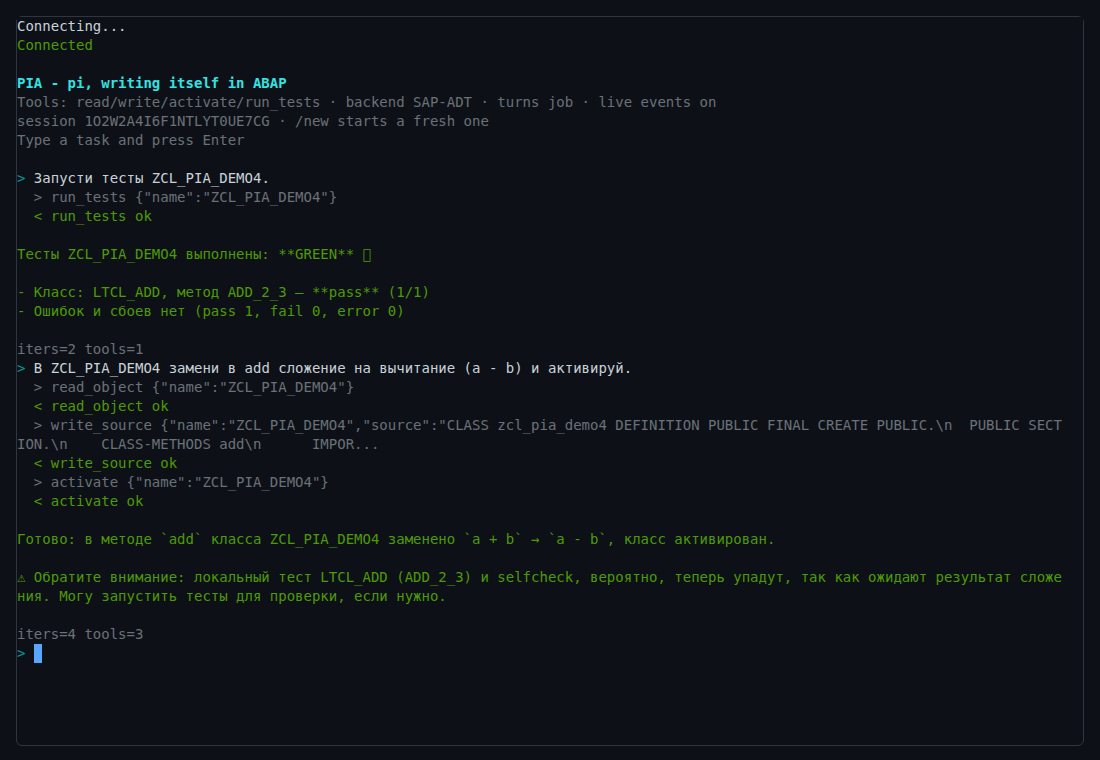
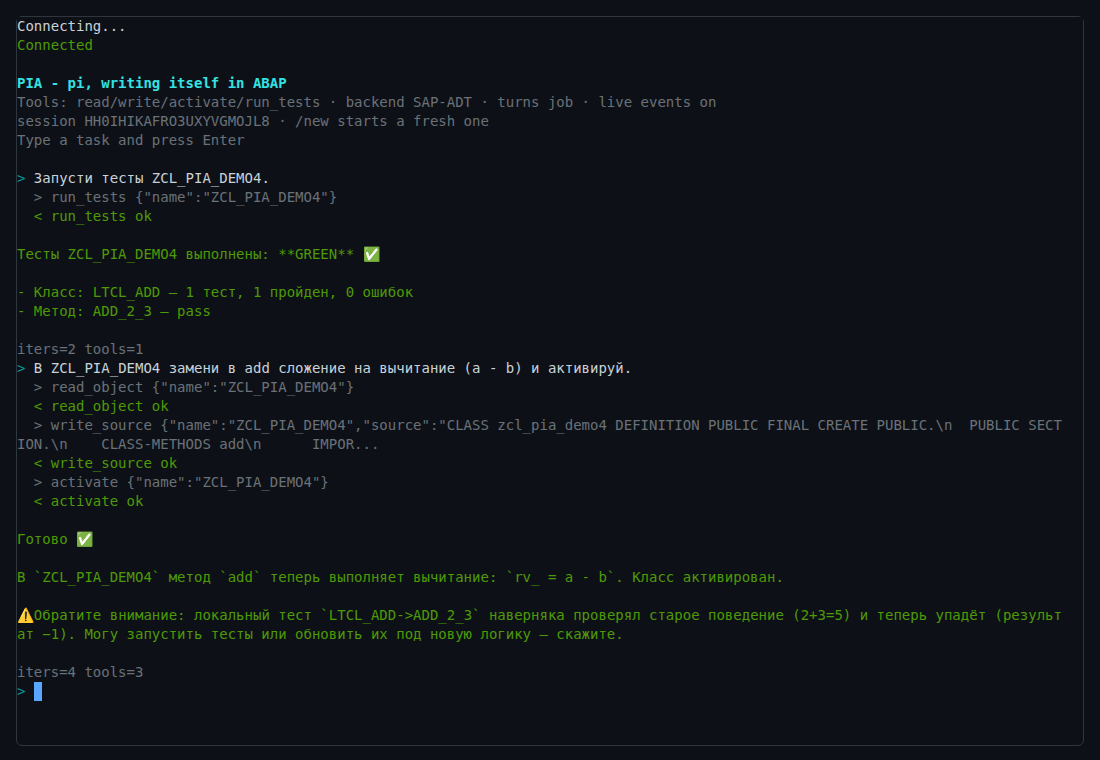
Chapter 19 on PIA 0.1.1: five turns on A4H, the same run on open-steamgate, replay without a key
Pictures from PIA 0.1.1 (oisee/pia 68431f8): five A4H turns in EN/RU and two
open-steamgate turns recorded by replay. The last section describes record
and replay (pia-chapter.rec) and names what open-steamgate still needs in a
release before the terminal runs there.

Claude-Session: https://claude.ai/code/session_018Djywwje7kdEq6CEr4LG73

diff --git a/book/ru/19-pia.md b/book/ru/19-pia.md
@@ -8,11 +8,13 @@
 класс, записывает изменение, активирует его и запускает тесты ABAP Unit — в
 той же системе и от вашего имени.
 
-Всё здесь — собственные результаты PIA из его первого релиза,
-[v0.1.0](https://github.com/oisee/pia/releases/tag/v0.1.0). Картинки сняты на
-ABAP Platform Trial от SAP (A4H, NetWeaver 7.58), а не на open-steamgate; сами мы
-этот прогон не повторяли. Последний раздел говорит, что нужно, чтобы
-запустить то же самое в своей песочнице.
+Всё здесь — собственные результаты PIA из его релизов
+[v0.1.0](https://github.com/oisee/pia/releases/tag/v0.1.0) и
+[v0.1.1](https://github.com/oisee/pia/releases/tag/v0.1.1). Картинки — PIA
+0.1.1: пять сняты на ABAP Platform Trial от SAP (A4H, NetWeaver 7.58), две —
+на open-steamgate; сами мы эти прогоны не повторяли.
+Последний раздел говорит, что нужно, чтобы запустить то же самое в своей
+песочнице.
 
 ## Ход
 
@@ -50,36 +52,40 @@ METHODS invoke
 ## Зелёный, красный, зелёный
 
 Релизный тест PIA ведёт терминал через Playwright
-([tui-e2e.mjs](https://github.com/oisee/pia/blob/v0.1.0/osg-probe/ui/tui-e2e.mjs))
-по четырём задачам на маленьком классе `ZCL_PIA_DEMO4`: его метод `add`
+([tui-e2e.mjs](https://github.com/oisee/pia/blob/v0.1.1/osg-probe/ui/tui-e2e.mjs))
+по пяти задачам на маленьком классе `ZCL_PIA_DEMO4`: его метод `add`
 возвращает `a + b`, а единственный тест ждёт, что `add( 2, 3 )` даст 5.
 Строка, начинающаяся с `>`, — задача; строки `>` и `<` с отступом под ней —
 вызовы инструментов и их результаты, по мере того как они происходят.
+Картинки — PIA 0.1.1 на A4H
+([screenshots/a4h-tui-011](https://github.com/oisee/pia/tree/68431f8/screenshots/a4h-tui-011)).
 
 Сначала тесты: один вызов, зелёный.
 
-![PIA запускает тесты ZCL_PIA_DEMO4: один вызов run_tests, всё зелёное](../img/pia-1-green.ru.png)
+![PIA запускает тесты ZCL_PIA_DEMO4: один вызов run_tests, зелёный](../img/pia-1-green.ru.png)
 
 Затем намеренная поломка: «поменяй add на a - b и активируй». Модель читает
 класс, записывает его обратно с изменением, активирует и сама добавляет, что
-существующий тест теперь, скорее всего, упадёт.
+тест теперь упадёт.
 
 ![PIA меняет add на a - b: read_object, write_source, activate](../img/pia-2-break.ru.png)
 
-Так и есть: ожидалось 5, получено −1. Результат теста SAP пишет
-отрицательное число как `1-`, с минусом в конце, как принято в ABAP, и
-модель это объясняет.
+Тесты красные: ожидалось 5, получено −1. Результат теста SAP пишет
+отрицательное число как `1-`, с минусом в конце, как принято в ABAP, а модель
+переводит его обратно в −1.
 
-![Тесты красные: LTCL_ADD→ADD_2_3 ожидал 5, получил −1](../img/pia-3-red.ru.png)
+![Тесты красные: LTCL_ADD->ADD_2_3 ожидал 5, получил −1](../img/pia-3-red.ru.png)
 
-Наконец исправление одной задачей: «верни a + b, активируй и запусти тесты».
-Три вызова инструментов — и тесты снова зелёные.
+Исправление: «верни a + b и активируй». Два вызова инструментов.
 
-![PIA возвращает a + b, активирует и запускает тесты: зелёный](../img/pia-4-fix.ru.png)
+![PIA возвращает a + b и активирует класс](../img/pia-4-fix.ru.png)
+
+И пятая задача снова запускает тесты: зелёный.
+
+![Тесты снова зелёные](../img/pia-5-green.ru.png)
 
 Тот же прогон проходит на английском, датском и русском: модель отвечает на
-языке задачи. (Пустой квадрат после RED и GREEN — эмодзи, которого нет в
-шрифте терминала.)
+языке задачи. По отчёту релиза PIA на A4H проходят все пятнадцать шагов.
 
 ## Один агент, две системы
 
@@ -160,17 +166,43 @@ SAP запрещает ABAP Unit и запись исходников, то ес
   ([отчёт](https://github.com/oisee/pia/blob/v0.1.0/reports/2026-10-06-SELF-HOSTING.md)).
   Агент на ABAP, написанный на ABAP, изменил свой собственный ABAP.
 
+## Тот же прогон на open-steamgate
+
+[PIA 0.1.1](https://github.com/oisee/pia/releases/tag/v0.1.1) проходит те же
+пять ходов на open-steamgate. Эти картинки сняты там, при воспроизведении
+записанных ответов модели, о котором ниже
+([screenshots/osg-tui](https://github.com/oisee/pia/tree/68431f8/screenshots/osg-tui)).
+Одно отличие видно в ответах агента: на open-steamgate активация публикуется в
+конце хода, поэтому модель пишет «публикация отложена — новый код станет
+активным на следующем шаге», и тесты идут следующим ходом.
+
+![На open-steamgate: красный после поломки, затем add возвращается к a + b и активируется](../img/pia-osg-4-fix.ru.png)
+
+![Пятый ход: тесты снова зелёные](../img/pia-osg-5-green.ru.png)
+
 ## Запуск в своём open-steamgate
 
-С тем open-steamgate, для которого написана эта книга, пока нет. Бэкенду PIA
-для open-steamgate нужен API разработки для агентов (отслеживаемая
-активация, тесты на опубликованном поколении). README PIA называет
-поддержку open-steamgate предварительной, пока этот API не влит; после него
-должен выйти PIA 0.1.1. Когда выйдут оба, этот раздел проведёт вас по тем
-же четырём задачам в вашей песочнице.
+PIA 0.1.1 умеет воспроизводить главу без ключа модели. Строка
+`PIA_LLM=record:<файл>` в `pia-settings.env` (настройки без секретов, рядом с
+`pia.env`) записывает каждый ответ модели в файл, а `PIA_LLM=replay:<файл>`
+отвечает из него по порядку, без ключа и без сети. Инструменты при этом
+выполняются по-настоящему. В релизе лежит `pia-chapter.rec`: сценарий из пяти
+ходов на английском, датском и русском, записанный на open-steamgate. Чтобы
+начать заново, удалите `pia-chapter.rec.pos`
+([заметки к релизу](https://github.com/oisee/pia/releases/tag/v0.1.1)).
 
-<!-- hands-on: after the OSG release with the agent dev API and PIA 0.1.1 -->
+На том релизе open-steamgate, для которого написана книга, это пока не
+работает. Заметки к релизу PIA называют, что терминалу ещё нужно в
+open-steamgate и чего пока нет в релизе:
+- расширения каналов AMC;
+- публикация в конце шага APC;
+- рецикл рантайма, который не обрывает соединение посреди хода.
 
-На SAP PIA 0.1.0 ставится уже сейчас: zip для abapGit, два сертификата для
-хоста модели, файл с ключом и терминал по адресу `/sap/bc/zpia_tui/`.
-Четыре шага — в [README](https://github.com/oisee/pia/blob/v0.1.0/README.md).
+Когда это войдёт в релиз open-steamgate, этот раздел проведёт вас по пяти
+ходам в вашей песочнице.
+
+<!-- hands-on: after the OSG release with AMC channel extensions, publish at the end of an APC step and the quiet-recycle fix -->
+
+На SAP PIA ставится уже сейчас: zip для abapGit, два сертификата для хоста
+модели, файл с ключом и терминал по адресу `/sap/bc/zpia_tui/`. Шаги — в
+[README](https://github.com/oisee/pia/blob/v0.1.1/README.md).

diff --git a/book/19-pia.md b/book/19-pia.md
@@ -7,11 +7,12 @@ written in ABAP. It runs inside the system it works on. You type a task into
 a terminal in your browser; PIA reads the class, writes the change, activates
 it and runs its ABAP Unit tests, on that same system and as you.
 
-Everything here is PIA's own, from its first release,
-[v0.1.0](https://github.com/oisee/pia/releases/tag/v0.1.0). The pictures were
-taken on SAP's ABAP Platform Trial (A4H, NetWeaver 7.58), not on
-open-steamgate; this chapter did not repeat the run. The last section says
-what it takes to run the same thing in your own sandbox.
+Everything here is PIA's own, from its releases
+[v0.1.0](https://github.com/oisee/pia/releases/tag/v0.1.0) and
+[v0.1.1](https://github.com/oisee/pia/releases/tag/v0.1.1). The pictures are
+PIA 0.1.1: five on SAP's ABAP Platform Trial (A4H, NetWeaver 7.58), two on
+open-steamgate; this chapter did not repeat the runs. The last section says what it takes to run the same thing in your
+own sandbox.
 
 ## A turn
 
@@ -49,36 +50,41 @@ model in v0.1.0 is z.ai's `glm-5.3`, reached over HTTPS from ABAP.
 ## Green, red, green
 
 PIA's release test drives the terminal with Playwright
-([tui-e2e.mjs](https://github.com/oisee/pia/blob/v0.1.0/osg-probe/ui/tui-e2e.mjs))
-through four tasks on a small class, `ZCL_PIA_DEMO4`, whose method `add`
+([tui-e2e.mjs](https://github.com/oisee/pia/blob/v0.1.1/osg-probe/ui/tui-e2e.mjs))
+through five tasks on a small class, `ZCL_PIA_DEMO4`, whose method `add`
 returns `a + b` and whose one test expects `add( 2, 3 )` to be 5. Each line
 that starts with `>` is a task; the indented `>` and `<` lines under it are the
-tool calls and their results, as they happen.
+tool calls and their results, as they happen. The pictures are PIA 0.1.1 on
+A4H ([screenshots/a4h-tui-011](https://github.com/oisee/pia/tree/68431f8/screenshots/a4h-tui-011)).
 
 First, the tests: one tool call, green.
 
-![PIA runs the tests of ZCL_PIA_DEMO4: one call of run_tests, all green](img/pia-1-green.png)
+![PIA runs the tests of ZCL_PIA_DEMO4: one call of run_tests, green](img/pia-1-green.png)
 
 Then a deliberate break: "change add to a - b and activate it". The model
 reads the class, writes it back with the change, activates it, and adds on
-its own that the existing test will likely fail now.
+its own that the test will now fail. (It also gets the test's numbers wrong
+in passing: the test expects 5, not 4. The tests in the next turn are what
+count.)
 
 ![PIA changes add to a - b: read_object, write_source, activate](img/pia-2-break.png)
 
-It does: expected 5, actual −1. (SAP's test result writes the negative
-number as `1-`, the ABAP way; PIA's porting notes record it, and the
-Russian run's picture shows the model explaining it.)
+The tests are red: expected 5, actual −1. SAP's test result writes the
+negative number as `1-`, with the sign at the end, the ABAP way, and the
+model reads it back as −1.
 
-![The tests are red: LTCL_ADD→ADD_2_3 expected 5, got -1](img/pia-3-red.png)
+![The tests are red: LTCL_ADD->ADD_2_3 expected 5, got 1-, that is −1](img/pia-3-red.png)
 
-Last, the fix in one task: "change add back to a + b, activate and run the
-tests". Three tool calls, and the tests are green again.
+The fix: "change add back to a + b and activate it". Two tool calls.
 
-![PIA writes a + b back, activates and runs the tests: green](img/pia-4-fix.png)
+![PIA writes a + b back and activates it](img/pia-4-fix.png)
+
+And the fifth task runs the tests again: green.
+
+![The tests are green again](img/pia-5-green.png)
 
 The same run passes in English, Danish and Russian: the model answers in the
-language of the task. (The empty box after RED and GREEN is an emoji the
-terminal's font does not have.)
+language of the task. PIA's release reports all fifteen steps passing on A4H.
 
 ## One agent, two systems
 
@@ -158,18 +164,43 @@ These are PIA's own findings, from its reports and porting notes.
   ([report](https://github.com/oisee/pia/blob/v0.1.0/reports/2026-10-06-SELF-HOSTING.md)).
   An ABAP agent, written in ABAP, changed its own ABAP.
 
+## The same run on open-steamgate
+
+[PIA 0.1.1](https://github.com/oisee/pia/releases/tag/v0.1.1) runs the same
+five turns on open-steamgate. These pictures were taken there, replaying the
+recorded model answers described below
+([screenshots/osg-tui](https://github.com/oisee/pia/tree/68431f8/screenshots/osg-tui)).
+One difference shows in the agent's answers: on open-steamgate an activation
+is published at the end of the turn, so the model says "publish pending, live
+in the next step", and the tests run in the next turn.
+
+![On open-steamgate: red after the break, then add goes back to a + b and is activated](img/pia-osg-4-fix.png)
+
+![The fifth turn: the tests are green again](img/pia-osg-5-green.png)
+
 ## Running it on your own open-steamgate
 
-Not yet with the open-steamgate this book is written for. PIA's
-open-steamgate backend needs open-steamgate's development API for agents
-(tracked activation, tests on a published generation). PIA's README calls
-open-steamgate support a preview until that API is merged, with PIA 0.1.1 to
-follow. When both are released, this section will take you through the same
-four tasks in your own sandbox.
+PIA 0.1.1 can replay the chapter without a model key. `PIA_LLM=record:<file>`
+in `pia-settings.env` (settings without secrets, next to `pia.env`) writes
+every model answer to a file; `PIA_LLM=replay:<file>` answers from it, in
+order, with no key and no network. The tools still run for real. The release
+carries `pia-chapter.rec`: the five-turn scenario in English, Danish and
+Russian, recorded on open-steamgate. Delete `pia-chapter.rec.pos` to start
+over ([release notes](https://github.com/oisee/pia/releases/tag/v0.1.1)).
 
-<!-- hands-on: after the OSG release with the agent dev API and PIA 0.1.1 -->
+It does not run yet on the open-steamgate release this book is written for.
+PIA's release notes name what the terminal still needs on open-steamgate and
+what is not in a release yet:
+- AMC channel extensions;
+- publishing at the end of an APC step;
+- a runtime recycle that must not drop the connection in the middle of a
+  turn.
 
-On SAP, PIA 0.1.0 installs today: an abapGit zip, two certificates for the
-model's host, a key file, and the terminal at `/sap/bc/zpia_tui/`. The
-[README](https://github.com/oisee/pia/blob/v0.1.0/README.md) has the four
-steps.
+When they are in an open-steamgate release, this section will take you
+through the five turns in your own sandbox.
+
+<!-- hands-on: after the OSG release with AMC channel extensions, publish at the end of an APC step and the quiet-recycle fix -->
+
+On SAP, PIA installs today: an abapGit zip, two certificates for the model's
+host, a key file, and the terminal at `/sap/bc/zpia_tui/`. The
+[README](https://github.com/oisee/pia/blob/v0.1.1/README.md) has the steps.

diff --git a/book/ru/00-preface.md b/book/ru/00-preface.md
@@ -79,5 +79,5 @@ ABAP Unit: тесты запускаются клавишами Ctrl+Shift+F10, 
 | Рабочее место | 15 От службы к коду | представление System, запросы `.http` с методом DPC, вызов из кода с HTTP-ответом, кто использует класс |
 | Оркестрация | 16 Ночной набор, 17 Регулятор | набор правил в YAML (DSL L3): этап-фильтр, рабочий список, стопки как задания, шлюз, открывающий следующий этап один раз, ночное расписание; бюджет открытых сообщений на прогон, который останавливает его, пока человек не продолжит с причиной |
 | Потому что можем | 18 JavaScript и C в ABAP | QuickJS, работающий как ABAP на настоящем ядре (результат abapiti); в вашей песочнице — функция на C, собранная в WebAssembly и abapiti в класс ABAP, рисует множество Мандельброта в консоли classrun байт в байт как нативный C |
-| Агент за клавиатурой | 19 Агент, который пишет ABAP изнутри системы | PIA, агент для программирования на ABAP, читает, меняет, активирует и тестирует класс в той системе, где работает: зелёный, намеренная поломка, красный, исправление, зелёный (показано на SAP A4H) |
+| Агент за клавиатурой | 19 Агент, который пишет ABAP изнутри системы | PIA, агент для программирования на ABAP, читает, меняет, активирует и тестирует класс в той системе, где работает: зелёный, намеренная поломка, красный, исправление, зелёный (показано на SAP A4H и на open-steamgate) |
 | Приложения | A Запуск проверок, B Перенос в систему (что переносится), C Ограничения и глоссарий | автоматические проверки, список для переноса, оговорки |

diff --git a/README.md b/README.md
@@ -38,7 +38,7 @@ From an open-steamgate checkout the same pack runs in a terminal: `OSD_PACKS=/pa
 | 16 | [Orchestration: the night set](book/16-orchestration.md) | [Оркестрация](book/ru/16-orchestration.md) | a set of rules in stages: a filter fills a worklist, piles run as jobs, a gate opens the next stage once, a nightly schedule | `ZCL_OSD_FLEET_NIGHT` (`src/l3/`) |
 | 17 | [The governor](book/17-governor.md) | [Регулятор](book/ru/17-governor.md) | a budget of open alerts per run: the run stops at its glass, a person continues it with a reason | `ZCL_OSD_FLEET_WATCH` (`src/l3/`) |
 | 18 | [Because we can: JavaScript and C in ABAP](book/18-c-in-abap.md) | [JavaScript и C в ABAP](book/ru/18-c-in-abap.md) | QuickJS as ABAP on a real kernel (abapiti's result); a C function via WebAssembly and abapiti into an ABAP class, drawing the Mandelbrot set like native C | `ZCL_WASM_MANDEL` (`src/iti/`, `iti/`) |
-| 19 | [An agent that writes ABAP from inside the system](book/19-pia.md) | [Агент, который пишет ABAP изнутри системы](book/ru/19-pia.md) | PIA, an ABAP coding agent written in ABAP: green, break, red, fix, green on SAP A4H; the open-steamgate run follows the next PIA release | — (PIA's own repository) |
+| 19 | [An agent that writes ABAP from inside the system](book/19-pia.md) | [Агент, который пишет ABAP изнутри системы](book/ru/19-pia.md) | PIA, an ABAP coding agent written in ABAP: green, break, red, fix, green on SAP A4H and on open-steamgate; a recorded run replays without a model key | — (PIA's own repository) |
 | A | [Run the checks](book/90-run-the-checks.md) | [Проверки](book/ru/90-run-the-checks.md) | the automated end-to-end checks | `test/` |
 | B | [Take it to a system](docs/take-to-system.md) | [Перенос](book/ru/91-take-to-system.md) | what travels, what stays, how to import | |
 | C | [Limits and glossary](book/92-limits-glossary.md) | [Ограничения](book/ru/92-limits-glossary.md) | the fine print, the terms | |

diff --git a/book/00-preface.md b/book/00-preface.md
@@ -78,5 +78,5 @@ match for Activate.
 | The workbench | 15 From a service to its code | the System view, `.http` requests resolved to their DPC method, a call from the code to its HTTP answer, the readers of a class |
 | Orchestration | 16 The night set, 17 The governor | a set of rules in YAML (DSL L3): a filter stage, a worklist, piles run as jobs, a gate that opens the next stage once, a nightly schedule; a budget of open alerts per run that stops it until a person continues it with a reason |
 | Because we can | 18 JavaScript and C in ABAP | QuickJS running as ABAP on a real kernel (abapiti's result); in your sandbox, a C function compiled to WebAssembly and by abapiti to an ABAP class, drawing the Mandelbrot set in the classrun console, byte for byte as native C |
-| An agent at the keyboard | 19 An agent that writes ABAP from inside the system | PIA, a coding agent written in ABAP, reads, changes, activates and tests a class on the system it runs in: green, a deliberate break, red, fixed, green (shown on SAP A4H) |
+| An agent at the keyboard | 19 An agent that writes ABAP from inside the system | PIA, a coding agent written in ABAP, reads, changes, activates and tests a class on the system it runs in: green, a deliberate break, red, fixed, green (shown on SAP A4H and on open-steamgate) |
 | Appendices | A Run the checks, B Take it to a system (what travels), C Limits and glossary | the automated checks, the transport list, the fine print |
